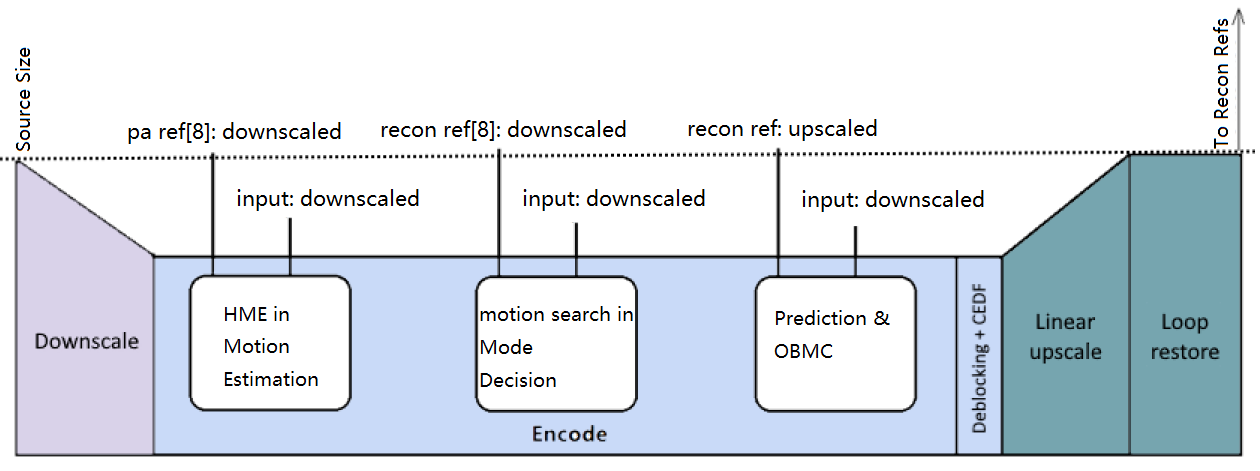
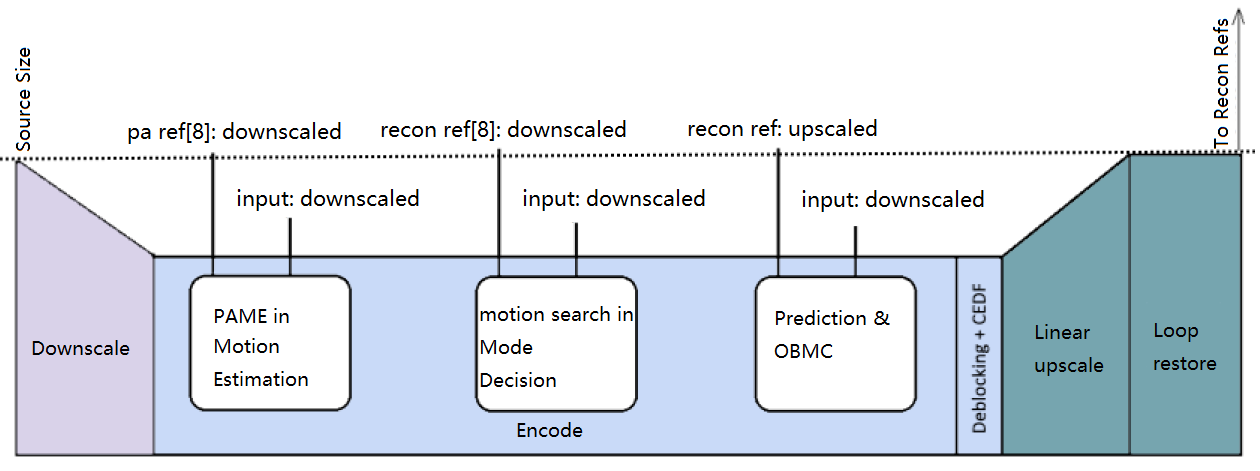
revise super-res design document

diff --git a/Docs/Appendix-Super-Resolution.md b/Docs/Appendix-Super-Resolution.md
@@ -1,88 +1,85 @@
 # Super-resolution Appendix
 
 ## 1. Description of the algorithm
-The AV1 codec allows video to be coded at lower resolution and upscaled to original resolution after reconstructed. This is useful in low bit rate streaming scenario [1]. Figure 1 depicts the architecture of the in-loop filtering pipeline when using super-resolution [2]. At encoder side, the source video is downscaled by a non-normative process first. Second, the downscaled video is encoded, followed by deblocking and CDEF. Third, the video is upscaled to original dimension and applied loop restoration to recover part of high frequency loss. The upscale and loop restoration together is called super-resolve and is normative. At decoder side, the coded video is decoded, and then applied deblocking and CDEF on lower resolution, lastly super-resolved to original video dimension [2]. In order to reduce overheads in line-buffers with respect to hardware implementation, the upscaling and downscaling processes are applied to horizontal dimension only [3]. The downscaling factor is constrained to 8/9 ~ 8/16. The downscale can be applied to some of the frames, especially for those that are too complex to fit in the target bandwidth. The downscaled frames can have different downscaling factors, too. The following sections will cover how the different size pictures work in different coding processes/stages and how the downscaling factor is determined.
+The AV1 specification allows for the input video pictures to be coded at a lower resolution and then upscaled to the original resolution after reconstruction. This coding procedure, referred to as super-resolution, is useful in low bit rate streaming scenarios [1]. Figure 1 depicts the architecture of the processing pipeline when using super-resolution [2]. At the encoder side, encoding using the super-resolution feature involves the following step. First, the source video is downscaled using a non-normative process. Second, the downscaled version of the input video is encoded, followed by application of deblocking and CDEF to the reconstructed downscaled version of the input video. Third, the output pictures from CDEF are upscaled to the original resolution and loop restoration is applied to the full resolution pictures to recover part of lost high frequency information. The upscaling and loop restoration operations are referred to as the super-resolve steps and are normative. At the decoder side, the resulting bitstream is decoded, and deblocking and CDEF are then applied on the lower resolution pictures. The output pictures from CDEF are then super-resolved to original video resolution[2]. In order to reduce overheads associated with line-buffers in hardware implementations, the upscaling and downscaling operations are applied to the horizontal dimension only [3]. The downscaling factor is constrained to 8/9 ~ 8/16. The downscaling operation can be applied to some of the frames, especially for frames that are too complex to fit in the target bandwidth. Different frames can have different downscaling factors. The following sections outline how the different size pictures are processed in the different stages of the SVT-AV1 encoder pipeline and how the downscaling factor is determined.
 
 ![superres_pipeline](./img/superres_pipeline.png)
-##### Figure 1. In-loop filtering pipeline with optional super-resolution
+##### Figure 1. Processing pipeline  when super-resolution is active.
 
 
 ## 2. Implementation of the algorithm
 ### 2.1. Downscaled and full size versions of pictures
-Figure 2 demonstrates how the different size pictures work in different coding processes/stages.
+Figure 2 illustrates how the different size pictures are processed in the different coding processes/stages.
 ![superres_picture_size](./img/superres_picture_size.png)
-##### Figure 2. Downscaled and full size pictures in coding processes
+##### Figure 2. Processing of the downscaled and full size pictures in the encoder pipeline.
 
-In Figure 2. Input downscaled denotes the downscaled version of current picture.
+In Figure 2, downscaled input refers to a downscaled version of the current input picture.
 
-In the Motion Estimation process (open-loop stage), pa ref denotes reference list which contains the original input pictures. Downscaled version of references and input picture are used in this process because of pixel-by-pixel SAD.
+In the Motion Estimation process (open-loop stage based on using source pictures as reference pictures), pa ref denotes a list of reference pictures consisting of input pictures at their original input resolution. When super-resolution is active, downscaled versions of reference and input pictures are used in this process to compute SAD distortion.
 
-In the Mode Decision process (in-loop stage), recon ref denotes reference picture list which contains the reconstructed pictures. Downscaled version of references and input picture are used in this process because of pixel-by-pixel SAD.
+In the Mode Decision process (in-loop stage), recon ref denotes reference picture list which contains the reconstructed pictures. When super-resolution is active, downscaled version of the recon references and input pictures are used in this process to compute SAD and other distortion measures.
 
-When doing prediction and OBMC, full size version of reconstructed references and downscaled version of current picture are used to align with the same process in decoder.
+In the prediction process, when super-resolution is active, MotionVectors and ScaleFactors are used to create downscaled prediction picture from upscaled recon ref pictures via convolve_2d_scale() function. Such design follows AV1 spec “Motion vector scaling process”. Current downscaled input picture and downscaled prediction picture are used to create residual picture for transform and quantization process.
 
-After restoration reconstructed version of current picture is updated to recon ref list.
+After deblocking and CDEF, current downscaled reconstructed picture is upscaled for next restoration process.
+
+After restoration, current upscaled reconstructed picture is added to the recon ref list.
 
 ### 2.2. Determination of the downscaling factor
-As mentioned, the downscaling factor is constrained to 8/9 ~ 8/16. Since the numerator of factor is fixed to 8, only the denominator needs to be determined. Libaom defines four modes to determine the denominator. They are Fixed, Random, QThreshold and Auto respectively. The mode is set by user. Auto mode has three search types: Auto-Solo, Auto-Dual and Auto-All which is set by Encoder Preset.
+The downscaling factor is constrained to 8/9 ~ 8/16. Since the numerator of the factor is fixed to 8, only the denominator needs to be determined. Four modes are used to set the denominator namely Fixed, Random, QThreshold and Auto modes, respectively. The mode is set by the user. Auto mode has three search types: Auto-Solo, Auto-Dual and Auto-All and is set according to the encoder Preset. A brief description of how each of the above mentioned modes works is included below.
 
-Below are how these modes work:
-* Fixed: Two denominators can be set by user, one for Key-frames and the other for non-key-frames. Downscale can be applied to all pictures.
-* Random: Denominator is set randomly. Downscale can be applied to all pictures. This mode is mainly used for debugging/verification purpose.
-* QThreshold: The use of super-resolution will be decided by comparing the QP of the frame with a user-supplied QP threshold.  Downscale is applied to Key-frames and ARFs only.
-* Auto-Solo: It works similarly with QThreshold mode except the QP threshold is fixed by encoder. In libaom, this search type is selected in Real-time usage.
-* Auto-Dual: Both downscaled (the denominator is determined by QP) and full size original input pictures are encoded. The output with better RDCost is picked. Downscale is applied to Key-frames and ARFs only. In libaom, this search type is selected in ‘good quality’ and ‘all intra’ usages.
-* Auto-All: Both downscaled with all possible denominators (9~16), and full size original input pictures are encoded. The output with best RDCost is picked. Downscale is applied to Key-frames and ARFs only (According to libaom’s comment, downscale is applied to Key-frames and Alt-ref frames only. But it is applied to all frame types except overlay and internal overlay frames in the code). This search type is implemented but not selected in libaom.
+* Fixed: Two denominator values can be set by the user, one for Key-frames and the other for non-key-frames. Downscaling can be applied to all pictures.
+* Random: The denominator is set randomly. Downscaling can be applied to all pictures. This mode is mainly used for debugging/verification purpose.
+* QThreshold: The use of super-resolution is decided by comparing the QP of the frame with a user-supplied QP threshold. Downscaling is applied to Key-frames and ARFs only.
+* Auto-Solo: It works similarly to QThreshold mode except that the QP threshold is fixed by the encoder.
+* Auto-Dual: Both downscaled (the denominator is determined by QP) and full size original input pictures are encoded. The output with the better rate-distortion cost is selected. Downscaling is applied to Key-frames and ARFs only.
+* Auto-All: Both downscaled with all possible denominator values (9~16) and full size original input pictures are encoded. The output with best rate-distortion cost is selected. Downscaling is applied to Key-frames and ARFs only.
 
-The following sections explain how these modes are implemented in SVT-AV1 encoder. And the high level dataflow of super-resolution is shown in figure 3.
+The following sections explain how these different modes are implemented in the SVT-AV1 encoder. The high level dataflow of super-resolution is shown in Figure 3.
 ![superres_new_modes_dataflow](./img/superres_new_modes_dataflow.png)
 ##### Figure 3. High-level encoder process dataflow with super-resolution feature.
 
 #### 2.2.1. Fixed and Random mode
-Denominators are determined and input picture is downscaled in Picture Decision process. The Picture Decision process posts three types of tasks to Motion Estimation process. They are first pass ME, TFME (temporal filter) and PAME (HME) respectively. First, skip super-resolution if it’s the first pass of two passes encoding. Second, super-resolution downscale is performed after TFME and before PAME: TFME is applied to full size picture, and then downscale is applied to TFME filtered picture. Lastly, PAME is applied to downscaled picture. As in Figure 2, HME requires input source and input references are with the same size, so the references (pa reference pictures) are also downscaled in advance.
+Setting the denominator value and the downscaling of the input picture are performed in the Picture Decision process. The Picture Decision process posts three types of tasks to Motion Estimation process. They are first pass ME, TFME (temporal filter) and PAME respectively. Super-resolution is not considered if it is the first pass of two-pass encoding process. Super-resolution downscaling is performed after TFME and before PAME, i.e. TFME is applied to the full size picture and then downscaling is applied to TFME filtered picture. PAME is performed using downscaled pictures. As shown in Figure 2, PAME requires the input source pictures and the corresponding reference pictures to be of the same size, so the references (pa reference pictures) are also downscaled in advance.
 
 #### 2.2.2. QThreshold and Auto-Solo mode
-These modes require QP (or qindex) to determine denominator. In SVT-AV1 encoder, picture level QP won’t be determined until Rate Control process. So it’s reasonable to determine denominator in RC process after picture level QP is determined. Since HME is resolution dependent, a PAME task is posted and dataflow goes back to Motion Estimation process. When a picture is second time in RC process, its QP is adjusted based on the rate control mode and its denominator. The super block level QP is also updated.
+Both modes require QP (or qindex) to determine denominator. In SVT-AV1 encoder, picture level QP is determined in the Rate Control process. So the denominator can be decided only if the picture level QP is determined in the Rate Control process on the original resolution. Because the resolution is changed by new denominator, PAME must be done again at new resolution. As illustrated in Figure 3, a PAME task is posted after Rate Control and dataflow goes back to the Motion Estimation process.
 
 #### 2.2.3. Auto-Dual and Auto-All mode
-Auto-Dual and Auto-All require multiple coding loops. The denominator for each loop (including full size loop which is represented by special denominator 8) is determined in RateControl process. After all coding loops are finished, the denominator produces best RDCost is picked. RDCost is derived from SSE and bits of coded picture. In SVT-AV1 architecture SSE is computed in Restoration process, and bits of coded picture is computed in Packetization process. So RDCost is computed in Packetization process. After the RDCost is acquired, a PAME task is posted to trigger next coding loop as illustrated in figure 3.
+The Auto-Dual and the Auto-All modes require going through the coding loop multiple times. The scaling factor denominator for each pass through the coding loop (including full resolution pass which is represented by special scaling factor denominator 8) is determined in the rate control process. Once all the passes through the coding loop are completed, the scaling factor denominator corresponding to the best rate-distortion cost is selected. The rate-distortion cost is derived based on the SSE and the rate corresponding to the coded picture. In SVT-AV1, the SSE is computed in the Restoration process, and the rate of the coded picture is computed in the Packetization process. So the rate-distortion cost is computed in the Packetization process. After the rate-distortion cost is acquired, a PAME task is posted to trigger the next coding loop as illustrated in Figure 3.
 
-When multiple coding loops are applied, feedback tasks like RC feedback and reference list update tasks won’t be posted until final loop is finished. Recon output is also delayed.
+When multiple coding loops are considered, feedback tasks such as RC feedback and reference list update tasks won’t be posted until the final pass through the coding loop is finished. The recon output is also delayed.
 
 ### 2.3. Other noticeable changes in code base
 In SVT-AV1, data structure pool is widely used. That means many data structures are used in recycled manner and when a data structure is acquired from pool, its member variables may contain outdated values. This is not a problem when all pictures are in the same size, but care should be taken when super-resolution is enabled. For example, variables related to size and geometry, like super block count, or extra buffers allocated for downscaled pictures need to be reset to default (full size) values and memory to be safely freed. The most noticeable data structures are parent PCS (PictureParentControlSet) and child PCS (PictureControlSet). They are acquired in Resource Coordination process and Picture Manager process respectively.
 
-When Auto-Dual or Auto-All mode is on, coding state needs to be reset before each coding loop (Similar to ‘do recode’ in Mode Decision process).
+When Auto-Dual or Auto-All mode is active, coding state needs to be reset before each coding loop (Similar to ‘do recode’ in Mode Decision process).
 
 ### 2.4. Super-resolution API
 Table 1 illustrates the usage of super-resolution functions. Only related processes are listed.
 ![superres_API](./img/superres_API.png)
 ##### Table 1. Super-resolution API
 
-
 ## 3. Optimization
-Super-resolution has impact on coding speed: the current picture and its references are all needed to be downscaled to the same size for motion search. If different downscaled factors are used, pictures will be downscaled multiple times to the same resolutions. Pictures are downscaled on demand.
+Super-resolution affects the coding speed: The current picture and its references are all needed to be downscaled to the same size for motion estimation search. In current implementation, pa ref[8] array and recon ref[8] array are used to hold downscaled reference pictures, to avoid duplicate downscaling on the same reference picture for different input pictures.
 
-If Auto-Dual or Auto-All is selected, pictures will be encoded multiple times. While previous coding states are not saved except RDCost, so if previous coding pass’s RDCost is better, the last coding state is useless and an extra coding loop with previous factor is required. Mostly, full size coding has better RDCost than downscale ones, so current solution does downscaled coding loops first, then full size coding loop. The other possible solution is to eliminate the extra coding loop by saving previous coding states, but it requires extra memory and it is a bit more complicated to implement (E.g. Add an extra child PCS pointer in parent PCS structure).
+When Auto-Dual or Auto-All is selected, each picture is encoded multiple times with different denominator values. A rate-distortion cost is produced by each coding pass. If the last rate-distortion cost is the best, the encoded bitstream will be used directly. If not, the current picture must be encoded again with the denominator value of the best rate-distortion cost. Mostly, full size coding has better rate-distortion cost than the downscaling ones, so full size coding pass is arranged in the last. Because only key frame and ARF may enable downscaling, an extra coding pass is barely needed in practice. The other possible solution is to eliminate the extra coding pass by saving coding states, but it requires extra memory and it is a bit more complicated to implement (E.g. At least need an extra special PCS to save all coding state for the best rate-distortion cost).
 
-Super-resolution also has impact on memory usage: extra buffers have to be allocated to hold downscaled pictures, including current coding picture, pa references and reconstructed references as shown in figure 4.
+Super-resolution also has an impact on memory usage: Extra buffers are allocated to hold downscaled pictures, including current coding picture, PA references and reconstructed references as shown in Figure 4.
 ![superres_downscaled_buffers](./img/superres_downscaled_buffers.png)
 ##### Figure 4. Buffers for downscaled pictures
 
-Whether enable or disable super-resolution is up to user. If Auto mode is selected, encoder may decide search type according to its preset.
-
+Whether to enable super-resolution or not is up to the user. If the Auto mode is selected, the encoder may decide the search type according to specified encoder preset.
 
 ## 4. Usage recommendation
-The random mode is suitable for validation or test only because it requires more memory (buffers to hold every denominator in use of current coding frame and its references) and more CPU time (scaling frames with different factors) but brings no benefit than other modes.
+The Random mode is suitable for validation or testing only because it requires more memory (pa ref[8] and recon ref[8] are fully filled) and more CPU time (scaling the same reference on all different denominator values) but brings no benefit as compared to other modes.
 
-The fixed mode with constant QP configuration can achieve less bandwidth requirement and acceptable quality.
+The Fixed mode with constant QP configuration can achieve less bandwidth requirement and acceptable quality.
 
-The qthreshold or auto mode with VBR configuration are expected to have better coding efficiency than other modes because for most natural video and common bit rate, enabling super resolution actually causes compression efficiency loss. According to internal tests, coding gain is only achieved at very low bit rate with auto mode. With qthreshold and auto modes, super-resolution is only conducted on selected frames. The selection is based on frame QP (qthreshold mode) and RDCost (auto mode).
-
+The Qthreshold or Auto mode with VBR configuration is expected to have better coding efficiency than other modes because for most natural videos and common bit rates, enabling super-resolution actually leads to a drop in compression efficiency. According to internal tests, coding gain is achieved only at very low bit rates with the Auto mode. With Qthreshold and Auto modes, super-resolution is only conducted on selected frames. The selection is based on the frame QP (Qthreshold mode) and rate-distortion cost (Auto mode).
 
 ## 5. Notes
 The feature settings that are described in this document were compiled at v0.8.7 of the code and may not reflect the current status of the code. The description in this document represents an example showing how features would interact with the SVT architecture. For the most up-to-date settings, it's recommended to review the section of the code implementing this feature.
-
 
 ## 6. References
 [1] Jingning Han, Bohan Li, Debargha Mukherjee, Ching-Han Chiang, Adrian Grange, Cheng Chen, Hui Su, Sarah Parker, Sai Deng, Urvang Joshi, Yue Chen, Yunqing Wang, Paul Wilkins, Yaowu Xu, James Bankoski, “A Technical Overview of AV1”